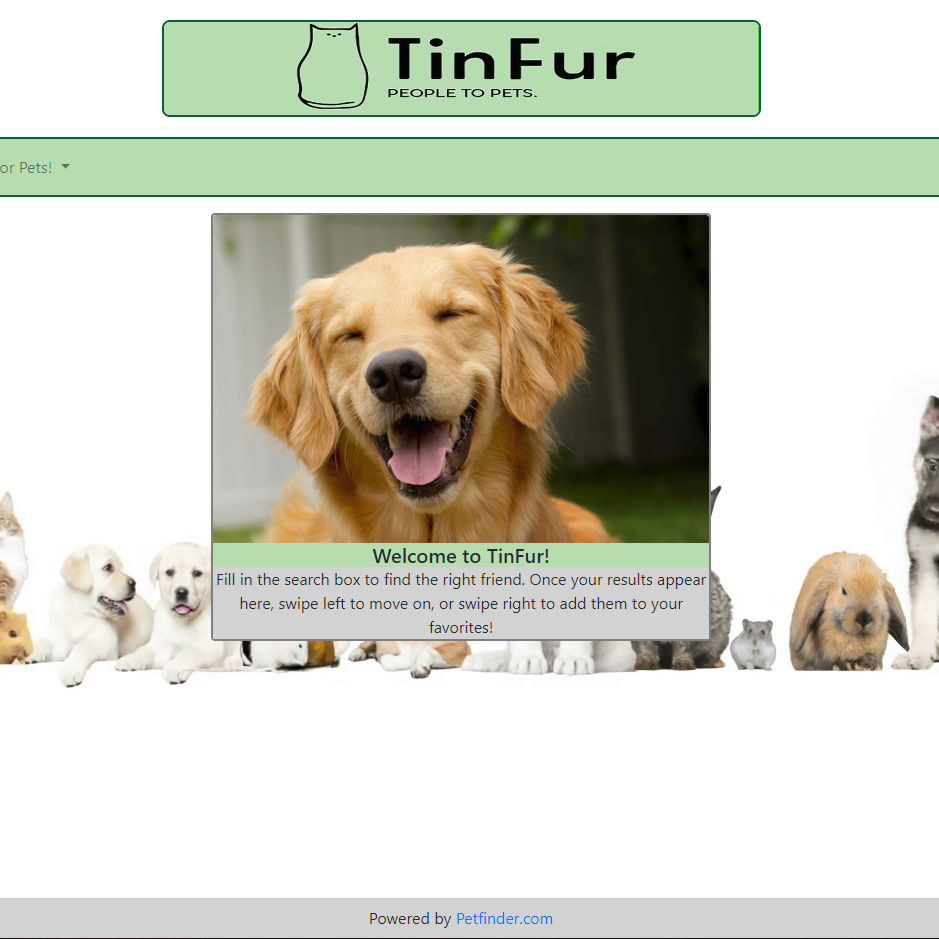
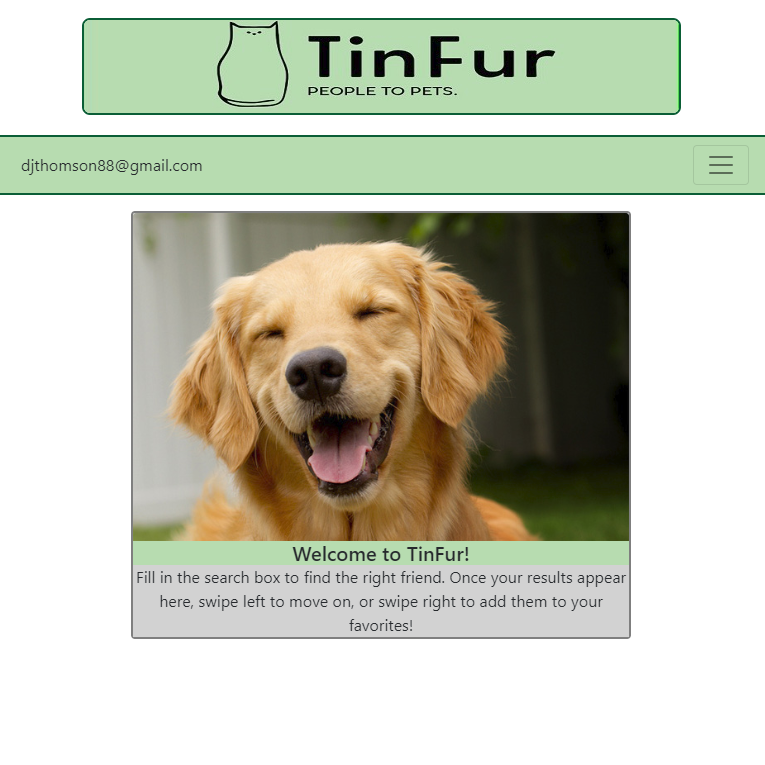
Cleanup, new tinfur image

diff --git a/index.html b/index.html
@@ -109,7 +109,7 @@
                     <div class="card project">
                         <img class="card-img" src="assets/images/giftastic.png" alt="Giftastic">
                         <div class="card-img-overlay text-center d-flex flex-column justify-content-center">
-                            <h5 class="card-title">Giftastic</h5>
+                            <h5 class="card-title">GifTastic</h5>
                             <p class="card-text text-comp">APIs and local storage</p>
                             <button class="btn-learn-more w-50 mx-auto">Learn More</button>
                         </div>
